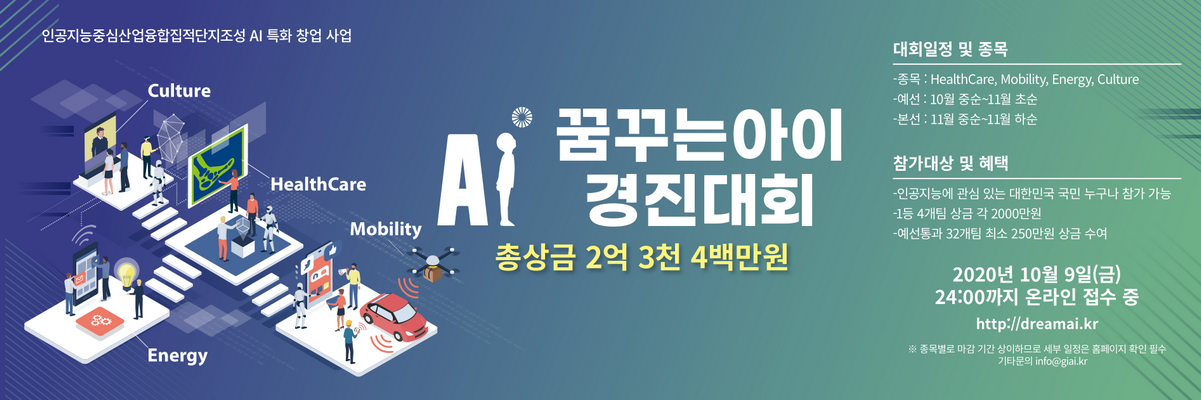
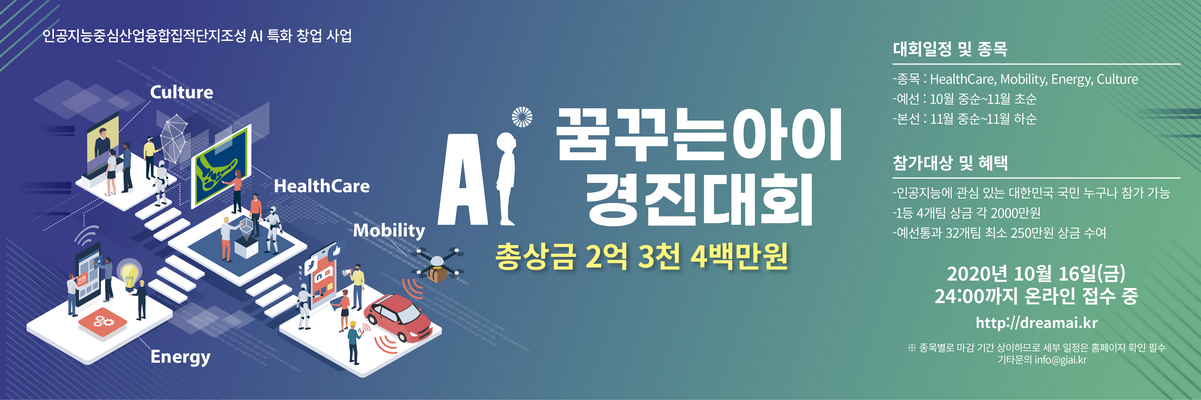
5

diff --git a/fair.html b/fair.html
@@ -420,7 +420,7 @@
               <br>
               <p>
                 <br /><br /><b style="font-size: 1.3em">01. 일정</b><br /><br />
-                ∙ 참가접수: <b style="color: red">~ 10.09(금) 24:00까지 온라인 접수</b> <br />
+                ∙ 참가접수: <b style="color: red">~ 10.16(금) 24:00까지 온라인 접수</b> <br />
                 <b
                   >&nbsp;&nbsp;&nbsp;&nbsp;&nbsp;&nbsp;&nbsp;&nbsp;&nbsp;&nbsp;(<b
                     style="color: red"
@@ -428,7 +428,7 @@
                   >하므로, 세부 일정은 각 종목 홈페이지 확인 필수) <br
                 /></b>
                 ∙ 접수된 참가신청서를 검토하여 예선 참가팀 선발 <br />
-                ∙ 예선: 10월 중순 ~ 11월 초순 <br />
+                ∙ 예선: 10월 중순 ~ 11월 중순 <br />
                 ∙ 본선: 11월 하순 <br />
                 &nbsp;&nbsp;&nbsp;1) 본선 일정은 추후 확정될 예정입니다. <br />
                 &nbsp;&nbsp;&nbsp;2) 본선 일정과 상세내용은 확정되는 대로 본 페이지를 통해
